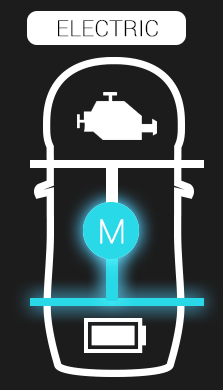
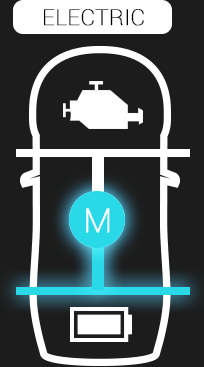
updated new battery Pics, implemented wifi connect button, now using 192.168.42.1 as default gatway ip address

diff --git a/qml/UI_v2/CRadioPage1.qml b/qml/UI_v2/CRadioPage1.qml
@@ -854,24 +854,6 @@ Image{
         drag.target:parent
         drag.axis:Drag.XandYAxis
     }
-    onXChanged: {
-//            if (fadeBalance.drag.active) {
-//                console.log("x=" + x)
-//            }
-        //these code is to make sure that the x axis does not get outside of the outline of
-        //the car in the x axis
-        if(x<570){
-            x = 570
-        }
-        if(x>625){
-            x = 625
-        }
-        fadeLevel =(x-570)*255/55;
-//            console.log("fade = " +fadeLevel);
-        busMessage = "0x244 0x07 0xAE 0X03 0X0 0X0 0X80 0x"+AC_Controls.convert(fadeLevel)+" 0X0"        // Create CAN message
-        keypressed = "fade"  // Debug Message
-        RadioUnit.radioBus(busMessage, keypressed) // Send CAN message onto bus
-    }
     onYChanged: {
 //            if (fadeBalance.drag.active) {
 //              console.log("y=" + y)
@@ -884,7 +866,26 @@ Image{
         if(y>280){
             y = 280
         }
-        balanceLevel = (280-y)*255/220;
+        fadeLevel = (y-60)*255/220;
+//            console.log("fade = " +fadeLevel);
+        busMessage = "0x244 0x07 0xAE 0X03 0X0 0X0 0X80 0x"+AC_Controls.convert(fadeLevel)+" 0X0"        // Create CAN message
+        keypressed = "fade"  // Debug Message
+        RadioUnit.radioBus(busMessage, keypressed) // Send CAN message onto bus
+    }
+    onXChanged: {
+//            if (fadeBalance.drag.active) {
+//                console.log("x=" + x)
+//            }
+        //these code is to make sure that the x axis does not get outside of the outline of
+        //the car in the x axis
+        if(x<570){
+            x = 570
+        }
+        if(x>625){
+            x = 625
+        }
+        balanceLevel =(x-570)*255/55;
+
 //            console.log("balance = " +balanceLevel);
         busMessage = "0x244 0x07 0xAE 0X03 0X0 0X0 0X40 0X0 0x"+AC_Controls.convert(balanceLevel)        // Create CAN message
         keypressed = "Balance"  // Debug Message

diff --git a/qml/UI_v2/BatteryTemp.qml b/qml/UI_v2/BatteryTemp.qml
@@ -48,8 +48,8 @@ Image{
 
     Image{
         id: modePicture
-        x: 520
-        y: 25
+        x: 531
+        y: 35
        // width: 0
         //height: 0
         z: 1
@@ -67,7 +67,7 @@ Image{
                 modePicture.opacity = 1
             }
             else if(text1 == "PARALLEL"){
-                modePicture.source= "UIPictures/Buttons/Battery Pics/Parallel.png"
+                modePicture.source= "UIPictures/Buttons/Battery Pics/parallel.png"
                 modePicture.opacity = 1
             }
             else if(text1 == "ELECTRIC"){
@@ -79,7 +79,7 @@ Image{
                 modePicture.opacity = 1
             }
             else if (text1 == "CHARGED"){
-                modePicture.source= "UIPictures/Buttons/Battery Pics/full charged.png"
+                modePicture.source= "UIPictures/Buttons/Battery Pics/charged.png"
                 modePicture.opacity = 1
             }
 

diff --git a/qml/UI_v2/main.qml b/qml/UI_v2/main.qml
@@ -401,11 +401,17 @@ Rectangle{
         width: 70
         height: 60
         z: 2
-        onClicked:
-            if (wifiActive.opacity==0)
-                wifiActive.opacity = 1;
-            else
-                wifiActive.opacity = 0;
+        onPressed:
+//            if (wifiActive.opacity==0)
+//                wifiActive.opacity = 1;
+//            else
+//                wifiActive.opacity = 0;
+            wifiActive.opacity = 1
+        onReleased:{
+            wifiActive.opacity = 0
+            CanControl.wifi_connect();
+        }
+
     }
 
     // ------------------------------------------------

diff --git a/CanControl.cpp b/CanControl.cpp
@@ -19,6 +19,15 @@ void CanControl::start_up(){
     QProcess::execute( str0 );
 }
 
+void CanControl::wifi_connect() {
+
+    QProcess *process = new QProcess();
+    process->setProcessChannelMode(QProcess::MergedChannels);
+    QStringList arguments;
+    arguments << "-c" << "~/./wifiConnect";
+    process->start("/bin/bash", arguments);
+}
+
 /*void CanControl::send(QString canMessageID, QString canMessageData){
     QProcess::execute("cansend can1 -i "+canMessageID+" "+canMessageData);
     qDebug() << "Sending diagnostic message";
@@ -119,7 +128,7 @@ void CanControl::_message_ready(QString canMessageID, int *canMessageData){
     emit batt_current_recieved((int)((canMessageData[4]*256+canMessageData[3])*0.025-1000));
 
     // write to UDP
-    QHostAddress ip("10.0.0.1");
+    QHostAddress ip("192.168.42.1");
     QByteArray datagram;
     datagram.append(0x03);
     for (int i = 0; i < 5; i++) {

diff --git a/CanRecieve.cpp b/CanRecieve.cpp
@@ -33,7 +33,7 @@ void CanRecieve::can_recieve(QString canMessageID){
                 data[i]=0;
             }
             //============
-            qDebug()<<"Message Not Recieved: "<< canMessageID << " (non-blocking)";
+            qDebug()<<"Message Not Received: "<< canMessageID << " (non-blocking)";
             //============
             emit message_ready(canMessageID,data);
         }
@@ -59,7 +59,7 @@ void CanRecieve::can_recieve(QString canMessageID){
             data[i]=0;
         }
         //============
-        qDebug()<<"Message Not Recieved: "<< canMessageID << " (non-blocking)";
+        qDebug()<<"Message Not Received: "<< canMessageID << " (non-blocking)";
         //============
         emit message_ready(canMessageID,data);
     }

diff --git a/CanControl.h b/CanControl.h
@@ -42,6 +42,8 @@ public:
         emit veh_mode_recieved("1");
     }
 
+    Q_INVOKABLE void wifi_connect();
+
     //end testing
 
 signals:
